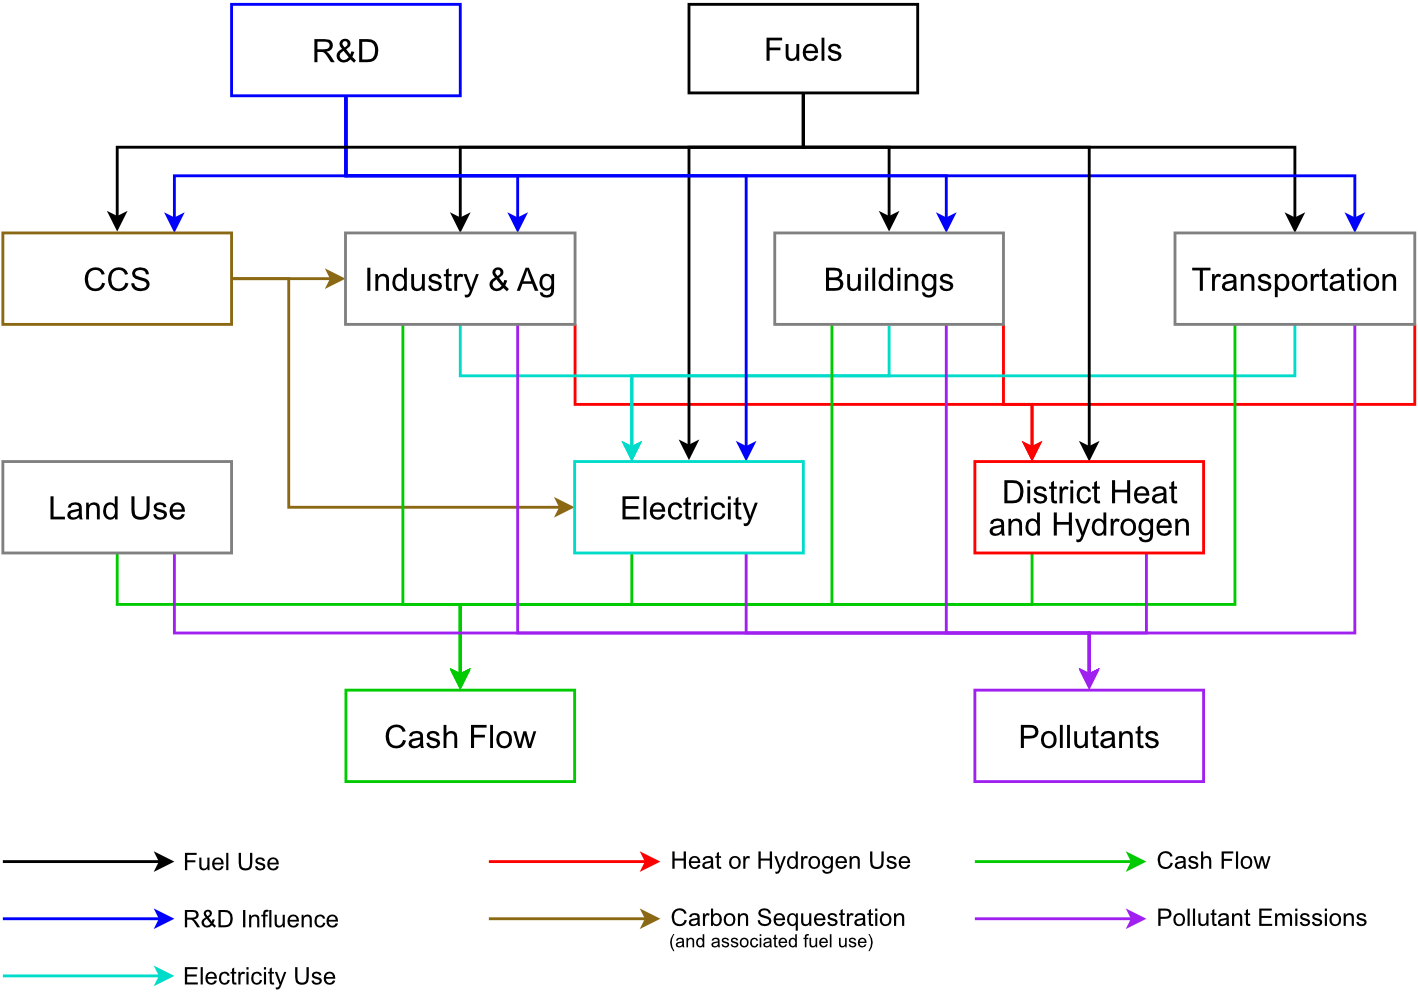
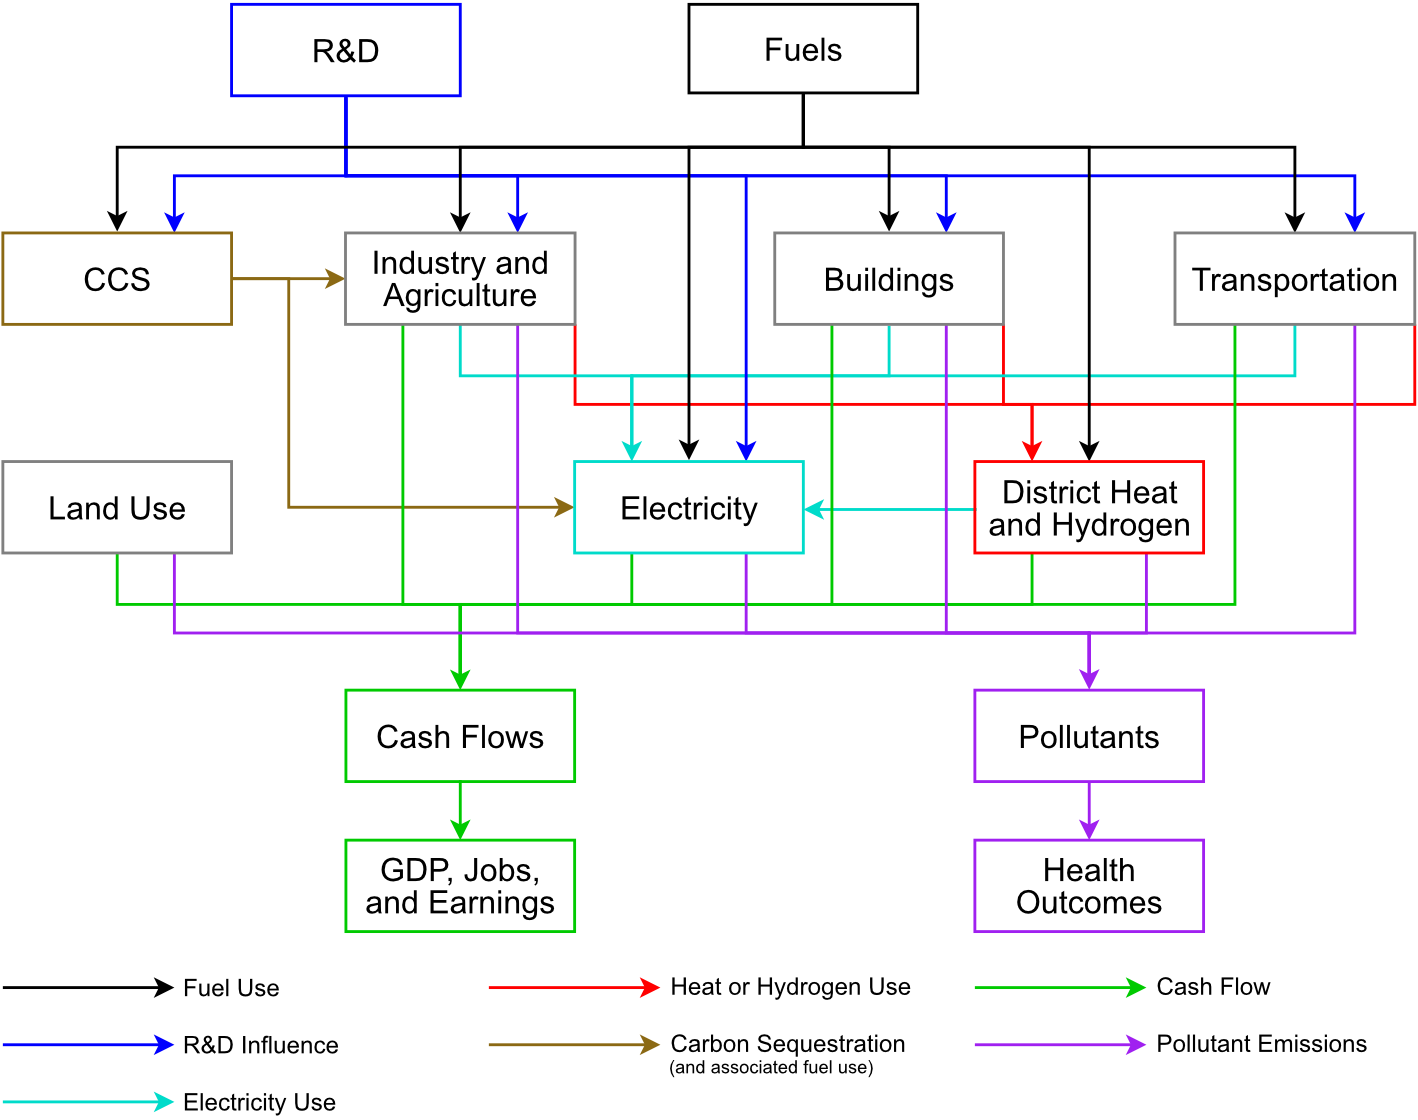
Update Architectural Design doc page

diff --git a/docs/architectural-design.md b/docs/architectural-design.md
@@ -2,7 +2,7 @@
 layout: page
 title:  "Architectural Design"
 ---
-<a name="rnd"></a>The Energy Policy Simulator (EPS) is a system dynamics model that assesses the effects of numerous energy and environmental policies on a variety of metrics, including the emissions of 12 pollutants; cash flow changes for government, industry, and consumers; the composition of the electricity generation fleet; the usage of various fuels; lives saved from reduced particulate emissions; and more.  The model is designed to operate at national scale, but versions for states/provinces and cities have also been created.  It includes five major sectors: transportation, electricity supply, buildings, industry (including agriculture), and land use/forestry, each of which contains many variables and a variety of policies.  It also has a number of other components that cover additional emissions sources or sinks, or which give the model additional capabilities.  These include district heating, carbon capture and sequestration, research and development, fuels, hydrogen supply, and a variety of useful output metrics.  The model reports outputs at annual intervals.  A customizable policy implementation schedule allows for policies to be phased in with any given level of stringency in any particular year, as desired by the user.
+<a name="rnd"></a>The Energy Policy Simulator (EPS) is a system dynamics model that assesses the effects of numerous energy and environmental policies on a variety of metrics, including the emissions of 12 pollutants; cash flow changes for government, industry, and consumers; the composition of the electricity generation fleet; the usage of various fuels; lives saved from reduced particulate emissions; and more.  The model is designed to operate at national scale, but versions for states/provinces and cities have also been created.  It includes five major sectors: transportation, electricity supply, buildings, industry (including agriculture), and land use/forestry, each of which contains many variables and a variety of policies.  It also has a number of other components that cover additional emissions sources or sinks, or which give the model additional capabilities.  These include district heating, carbon capture and sequestration, research and development, fuels, hydrogen supply, geoengineering, and a variety of useful output metrics.  The model reports outputs at annual intervals.  A customizable policy implementation schedule allows for policies to be phased in with any given level of stringency in any particular year, as desired by the user.
 
 Unlike many energy and economic computer models, the EPS does not construct a future business-as-usual (BAU) or reference scenario.  Instead, it uses a BAU scenario (based on the results of other scientists' studies and models) as input data.  The EPS then modifies the BAU scenario in response to the policy settings selected by the user.   This approach enables us to take advantage of the good work that has been done in this field while providing novel capabilities to analyze policy options that are immediately useful to policymakers and suggest specific policy actions that could be undertaken.  (The electricity and transportation sectors are exceptions.  Policies in the electricity sector can affect decisions about which types of power plants to build and how plants are dispatched, so a decision-making framework must be employed.  The decisions made by this framework using BAU input data may result in outputs that are different from those of other models, so in order to ensure our policy case is identical to our BAU case when all of the policies are disabled, we need to run BAU input data through our decision-making logic to construct a BAU case.  Similar reasoning applies to technology selection and use in the transportation sector.)
 
@@ -22,12 +22,14 @@ In Vensim, an array variable is called a "subscripted variable," a single dimens
 
 ## Calculation Flow
 
-The following diagram shows the major pieces of the model, and the arrows denote the order of calculation, not the flow of energy.  For example, the amount of electricity required is calculated in the demand sectors (Industry, Buildings, Transportation) and Hydrogen Supply, and then this result is fed into the Electricity Sector, which determines how to generate the necessary quantity of electricity.
+The following diagram shows the major pieces of the model, and the arrows denote the order of calculation, not the flow of energy.  For example, the amount of electricity required is calculated in the sectors that can consume electricity (Industry, Buildings, Transportation, District Heat, Hydrogen Supply, Geoengineering), and then this result is fed into the Electricity Sector, which determines how to generate the necessary quantity of electricity.
 
 ![Energy Policy Simulator model diagram](architectural-design-ModelDiagram.png)
 
-The model's calculation logic begins with the Fuels sheet, where basic properties of all fuels are set and policies that affect the price of fuels are applied.  Information about the fuels is used in the three "demand sectors": transportation, buildings, and industry (including agriculture).  These sectors calculate their own emissions from direct fuel use- e.g. fossil fuels burned in vehicles, buildings, and industrial facilities.  These sectors also specify a quantity of electricity or heat (energy carriers supplied by other parts of the model) required in each year.  The electricity and district heat sectors consume fuel to supply the energy needs of the three demand sectors.  The model also has a land use, land use change, and forestry (LULUCF) sector, which handles the emissions of pollutants and the sequestration of CO<sub>2</sub> from existing forests, afforestation/reforestation, deforestation and timber harvesting, etc.  All of these sectors produce emissions of each pollutant, which are summed at the end.  The same is true for cash flow impacts, which are calculated separately for particular actors (government, industry, consumers, and several specific industries).  Calculation of changes in spending (for example, on capital equipment, fuel, and O&M), as well as social benefits from avoided public health impacts and climate damages, are also carried out at this stage.
+The model's calculation logic begins with the [fuels sheet](fuels.html), where basic properties of all fuels are set and policies that affect the price of fuels are applied.  Information about the fuels is used in the three "demand sectors": [transportation](transportation-sector-main.html), [buildings](buildings-sector-main.html), and [industry (including agriculture)](industry-ag-main.html).  These sectors calculate their own emissions from direct fuel use- e.g. fossil fuels burned in vehicles, buildings, and industrial facilities.  These sectors also specify a quantity of electricity or heat (energy carriers supplied by other parts of the model) required in each year.  The [electricity](electricity-sector-main.html) and [district heat](district-heating.html) sectors consume fuel to supply the energy needs of the three demand sectors.  The model also has a land use, land use change, and forestry [(LULUCF) sector](lulucf.html), which handles the emissions of pollutants and the sequestration of CO<sub>2</sub> from existing forests, afforestation/reforestation, deforestation and timber harvesting, etc.  All of these sectors produce emissions of each pollutant, which are summed on the [Cross-Sector Totals sheet](cross-sector-totals.html).  Then, on the [Additional Outputs sheet](additional-outputs.html), these changes in pollutant emissions are then multiplied by health incident-per-ton multipliers derived from gridded air quality models and concentration-response functions to obtain health outcomes.
 
-There are two model components that affect the operation of various sectors.  A set of R&D levers allows the user to specify improvements in fuel economy and decreases in capital cost for technologies in the sectors (except LULUCF) and in the carbon capture and sequestration (CCS) module.  The CCS module alters the Industry and Electricity sectors by reducing their CO<sub>2</sub> emissions (representing sequestration), increasing their fuel usage (to power the energy-intensive CCS process), and affecting their cash flows.
+Like pollutants, cash flow impacts are summed from various sectors on the [Cross-Sector Totals sheet](cross-sector-totals.html).  Cash flows are calculated separately for particular actors (government, non-energy industries, labor and consumers, and various energy-supplying industries), with impacts on non-energy industries further divided up among various ISIC codes (parts of the economy).  Calculation of changes in spending (for example, on capital equipment, fuel, and O&M) is also carried out at this stage, on the [Cost Outputs](cost-outputs.html) sheet.  All of the direct financial results are then fed into the EPS's [input-output (I/O) model](io-model.html) to obtain GDP, jobs, and employee compensation impacts.  There is also a feedback loop from the I/O model to the three demand sectors (not shown on the diagram), so the energy use and emissions associated with induced and indirect economic activity are captured.
 
-Lastly, there are a number of sections that are not part of the model's calculation flow but serve other purposes.  The "Policy Control Center" is a sheet where the user can conveniently view and set all of the policy levers.  The "Cumulators," "Cost Outputs," and "Additional Outputs" sheets perform calculations on the results from the sectors and provide outputs of interest.  The "Endogenous Leaning" sheet implements some of the calculations for newer technologies whose advancement is linked to cumulative deployment.  "Hydrogen Supply" generates the hydrogen used by the demand sectors, using fuel or electricity.  A Web Application Support Variables" sheet converts many outputs of interest to more commonly-used units (for example, converting BTUs of natural gas to trillion cubic feet of natural gas), so that these variables may be referenced by the web application that powers the online version of the EPS.  A "Debugging Assistance" sheet provides the means to easily check certain totals that should sum to zero in the absence of bugs.
+There are two model components that affect the operation of various sectors.  A set of R&D levers allows the user to specify improvements in fuel economy and decreases in capital cost for technologies in the sectors (except LULUCF) and in the carbon capture and sequestration (CCS) module.  These improvements are additional to improvements in the BAU case, and additional to any improvements calculated by the endogenous learning mechanism in response to policies that boost technology deployment.  The CCS module alters the Industry and Electricity sectors by reducing their CO<sub>2</sub> emissions (representing sequestration), increasing their fuel usage (to power the energy-intensive CCS process), and affecting their cash flows.
+
+Lastly, there are a number of sections that are not part of the model's calculation flow but serve other purposes.  The "Policy Control Center" is a sheet where the user can conveniently view and set all of the policy levers.  The "Endogenous Leaning" sheet implements some of the calculations for newer technologies whose advancement is linked to cumulative deployment.  "Hydrogen Supply" generates the hydrogen used by the demand sectors, using fuel or electricity.  A Web Application Support Variables" sheet converts many outputs of interest to more commonly-used units (for example, converting BTUs of natural gas to trillion cubic feet of natural gas), so that these variables may be referenced by the web application that powers the online version of the EPS.  A "Debugging Assistance" sheet provides the means to easily check certain totals that should sum to zero in the absence of bugs.

diff --git a/docs/version-history.md b/docs/version-history.md
@@ -15,7 +15,7 @@ This page tracks updates that have been made with each version of the Energy Pol
   * A new [documentation page](io-model.html) explains the I/O model in detail.
   * We gratefully acknowledge the invaluable contributions of the [American Council for an Energy-Efficient Economy](https://www.aceee.org/) (ACEEE), [Jim Barrett](https://www.barretteconomics.com/), and [Skip Laitner](https://www.linkedin.com/in/skip-laitner-746b124/) for their guidance and advice in implementing this feature, and for allowing us to learn from the [DEEPER I/O model](https://www.aceee.org/files/pdf/fact-sheet/DEEPER_Methodology.pdf), originally created by Skip Laitner.
 * Improved Public Health Calculations
-  * In addition to the policy package's effects on premature mortality (introduced in version 1.0.3), the EPS now calculates impacts on 10 additional health outcomes, including lost work days, hospital admissions, non-fatal heart attacks, asthama attacks, respiratory symptoms and bronchitis.
+  * In addition to the policy package's effects on premature mortality (introduced in version 1.0.3), the EPS now calculates impacts on 10 additional health outcomes, including lost workdays, hospital admissions, non-fatal heart attacks, asthma attacks, respiratory symptoms and bronchitis.
 * Data Updates
   * First simulated year advanced from 2018 to 2019
   * Data in input variables based on EIA Annual Energy Outlook updated to use AEO 2020 values

diff --git a/docs/index.md b/docs/index.md
@@ -18,7 +18,7 @@ Links to doc pages are followed by a number indicating the version of the EPS co
 * [Introduction](introduction.html) - 3.0.0
 * [EPS Video Series](video-series.html) - 3.0.0
 * Model Overview
-  * [Architectural Design](architectural-design.html) - 2.0.0
+  * [Architectural Design](architectural-design.html) - 3.0.0
   * [The Included Input Data Set](input-data.html) - 1.1.4
   * [Assumptions and Limitations](assumptions.html) - 1.4.2
   * [How the EPS Avoids Double Counting Policy Effects](how-the-eps-avoids-double-counting.html) - 3.0.0
